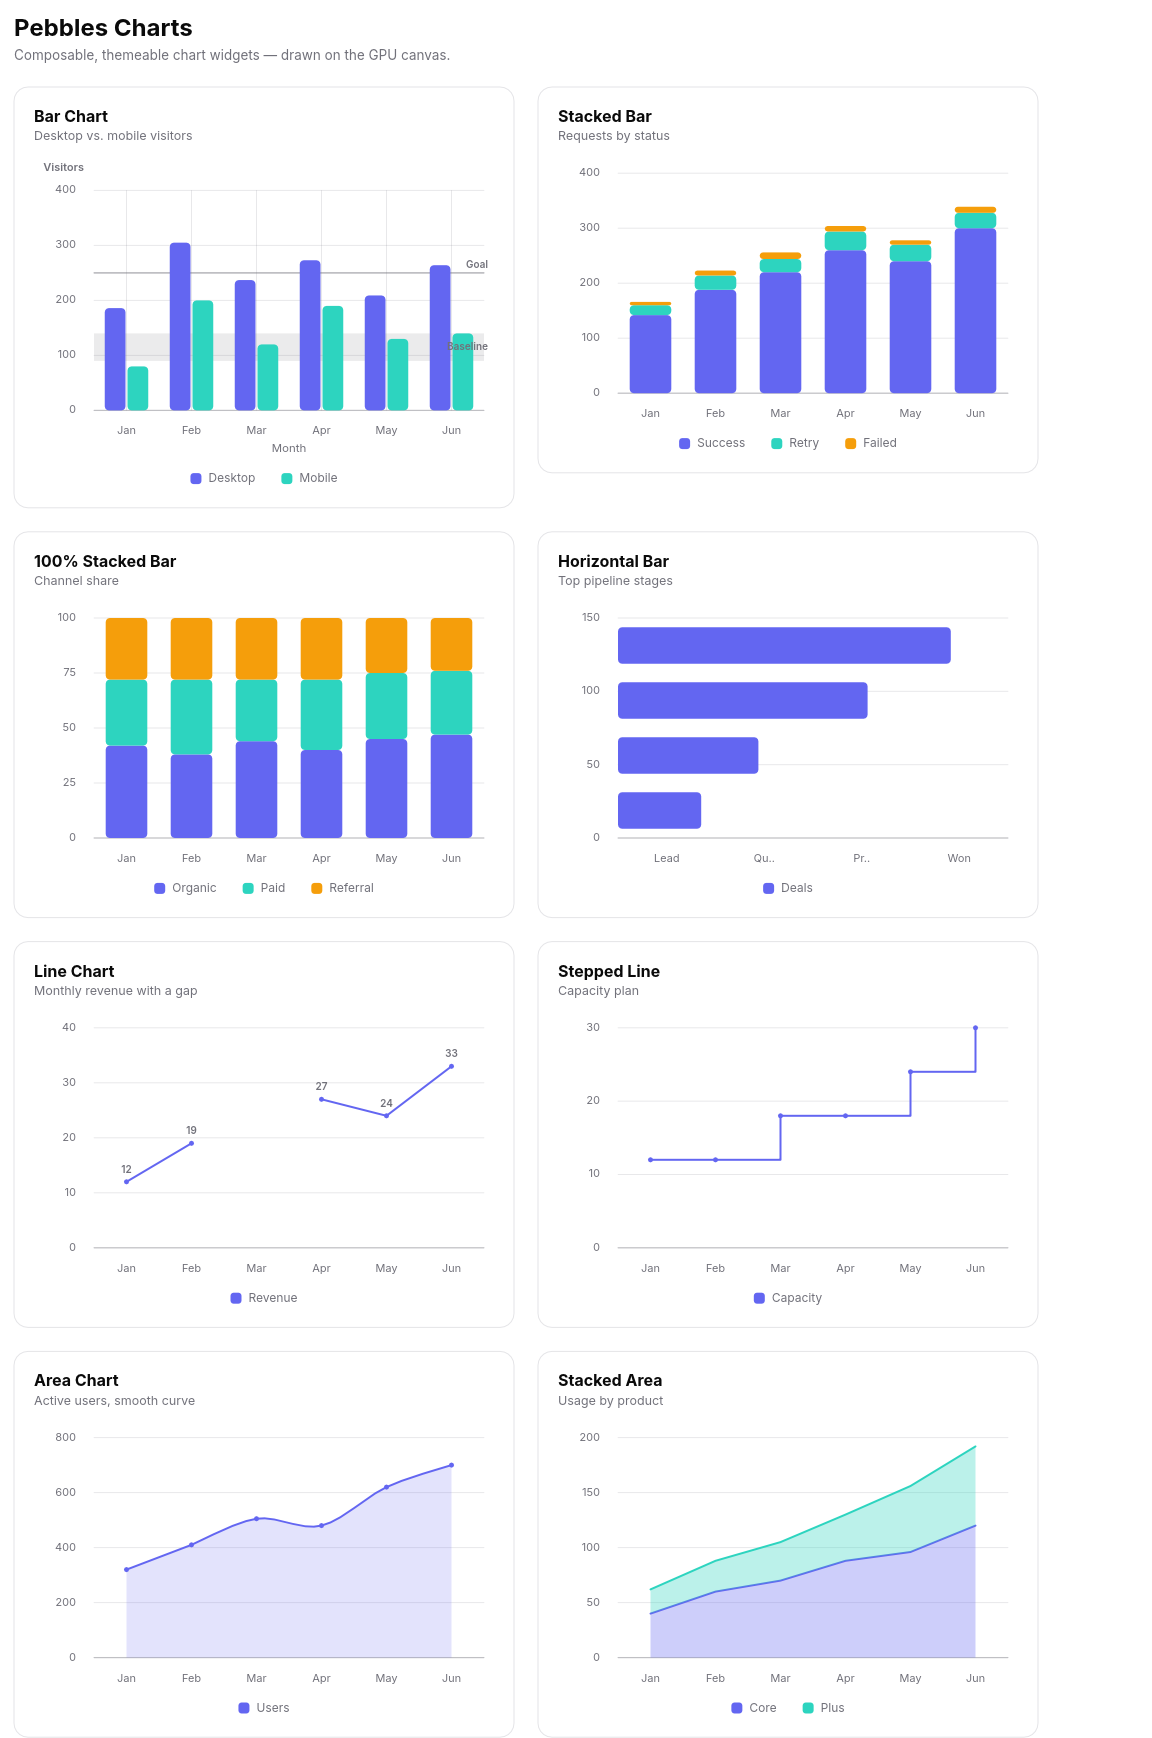
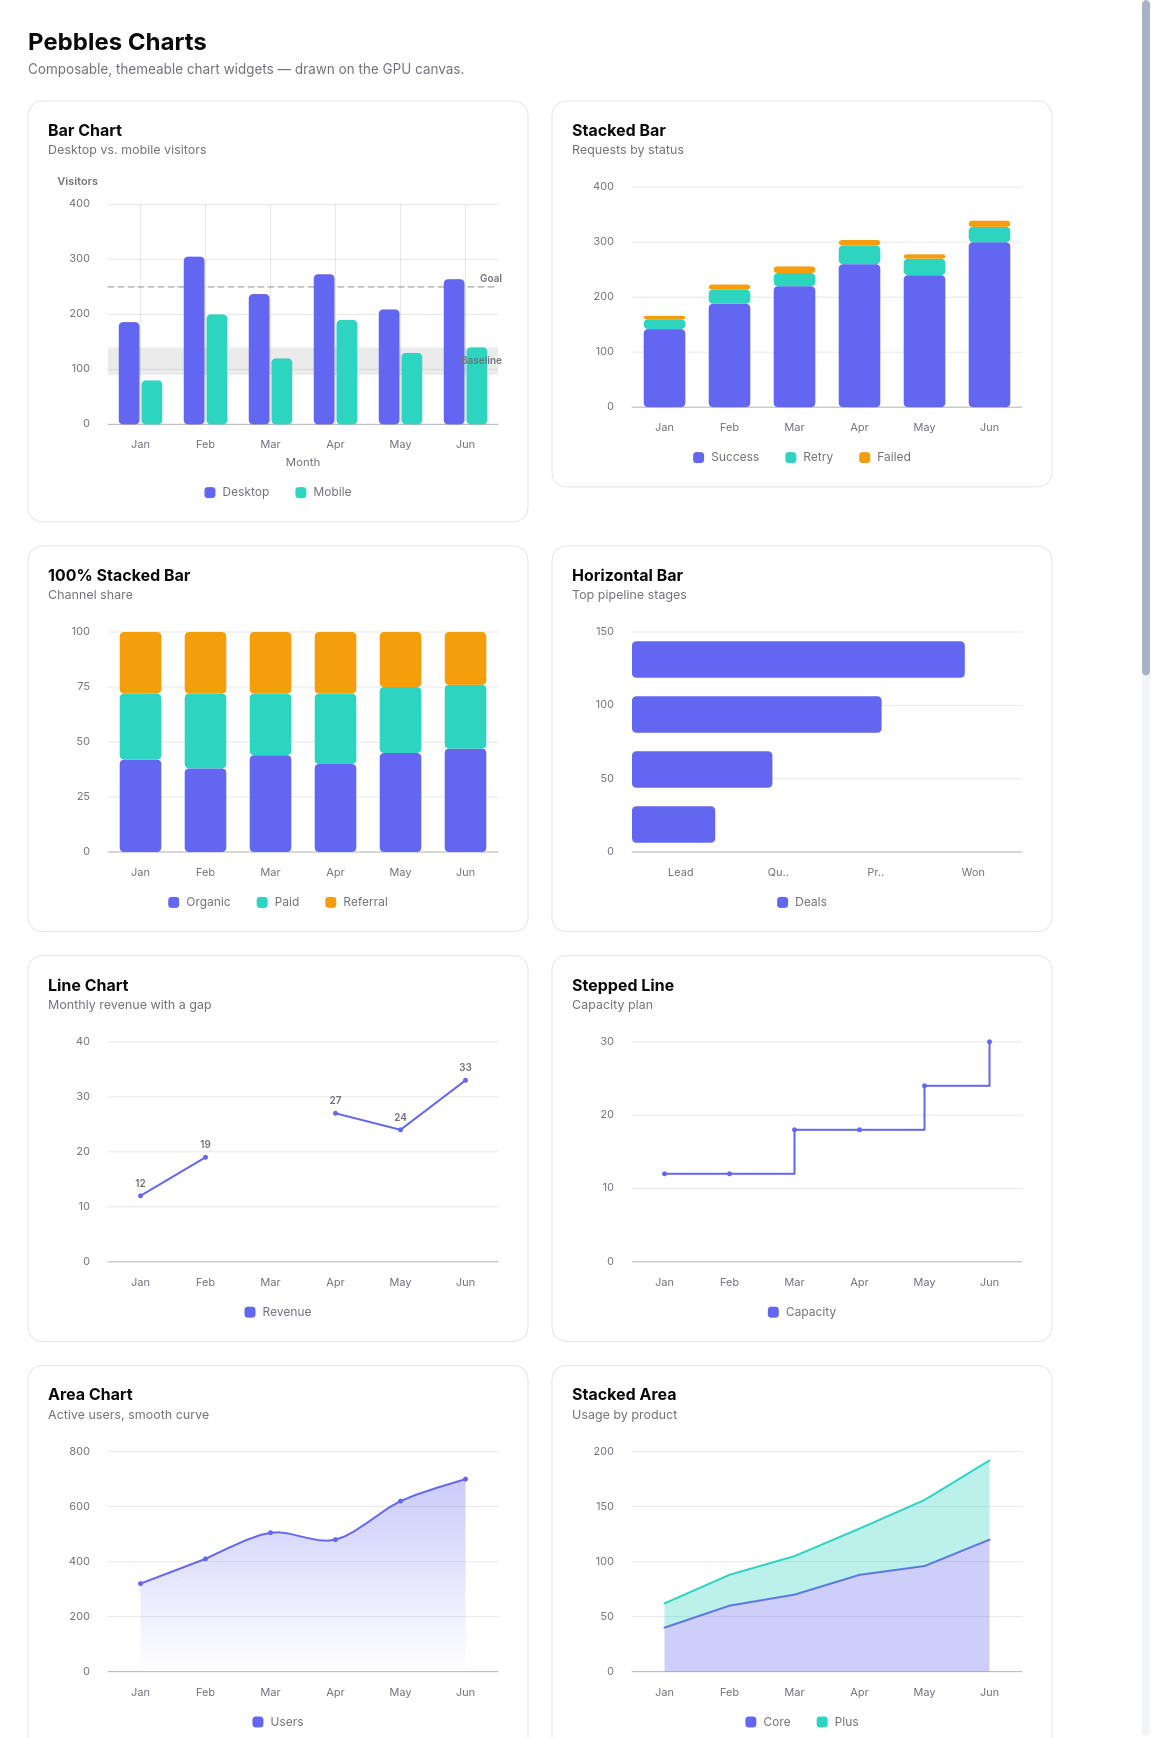
feat: gradient area fills, dashed reference lines, auto reduced-motion
Built on the new framework Canvas + animation APIs (pebbles cd7b3f1):
- .area_gradient(true) fills area/stacked-area with a vertical gradient
  (series color fading to transparent at the baseline)
- reference/target lines are now drawn dashed (conventional annotation style)
- .animate now auto-honors the OS reduced-motion preference by default via
  prefers_reduced_motion(); .animate(true/false) still forces an override
- demo showcases the gradient area; capture harness mirrors the reduced-motion
  setup so headless SHOT renders the static state; screenshot regenerated

diff --git a/src/charts.rs b/src/charts.rs
@@ -736,11 +736,13 @@ fn append_points_path(path: &mut BezPath, pts: &[(usize, f64, f64)], curve: Curv
 }
 
 #[allow(clippy::too_many_arguments)]
+#[allow(clippy::too_many_arguments)]
 fn draw_line_area_series(
     c: &mut Canvas<'_>,
     values: &[f64],
     series_index: usize,
     fill_area: bool,
+    area_gradient: bool,
     curve: CurveInterpolation,
     baseline: f64,
     y_scale: &LinearScale,
@@ -759,7 +761,13 @@ fn draw_line_area_series(
             append_points_path(&mut fill, &pts, curve);
             fill.line_to((pts[pts.len() - 1].1, baseline));
             fill.close_path();
-            c.fill_path(&fill, with_alpha(color, 0.18));
+            if area_gradient {
+                // Series color at the top of the band fading to transparent at the baseline.
+                let grad = Gradient::vertical([with_alpha(color, 0.34), with_alpha(color, 0.0)]);
+                c.fill_path_gradient(&fill, &grad);
+            } else {
+                c.fill_path(&fill, with_alpha(color, 0.18));
+            }
         }
 
         let mut line = BezPath::new();
@@ -1090,9 +1098,11 @@ pub struct CartesianChart {
     data_labels: bool,
     legend_position: LegendPosition,
     legend_values: bool,
-    animate: bool,
+    // None = auto (honor the OS reduced-motion preference); Some(_) = explicit override.
+    animate: Option<bool>,
     animation_ms: u32,
     palette: Option<Vec<Color>>,
+    area_gradient: bool,
 }
 
 /// Alias — a bar chart. See [`bar_chart`].
@@ -1148,9 +1158,10 @@ fn cartesian(kind: Kind, categories: Vec<String>, series: Vec<Series>) -> Cartes
         data_labels: false,
         legend_position: LegendPosition::Bottom,
         legend_values: false,
-        animate: true,
+        animate: None,
         animation_ms: 600,
         palette: None,
+        area_gradient: false,
     }
 }
 
@@ -1254,10 +1265,12 @@ impl CartesianChart {
         self.legend_values = on;
         self
     }
-    /// Animate the marks in on mount (a left-to-right reveal). Default true; set false
-    /// for a static chart or to honor a reduced-motion preference.
+    /// Animate the marks in on mount (a left-to-right reveal) and tween on data change.
+    /// By default this **auto-honors the OS reduced-motion preference** (animations off
+    /// when the user asked to minimize motion); call `.animate(true)` to force it on or
+    /// `.animate(false)` to force it off regardless.
     pub fn animate(mut self, on: bool) -> Self {
-        self.animate = on;
+        self.animate = Some(on);
         self
     }
     /// Entry-animation duration in milliseconds (default 600).
@@ -1270,6 +1283,13 @@ impl CartesianChart {
     /// custom `Vec<Color>`. Per-series `.color(..)` still wins over the palette.
     pub fn palette(mut self, colors: Vec<Color>) -> Self {
         self.palette = if colors.is_empty() { None } else { Some(colors) };
+        self
+    }
+    /// Fill area/stacked-area series with a **vertical gradient** (the series color at the
+    /// top fading to transparent at the baseline) instead of a flat translucent fill.
+    /// No effect on non-area charts. Default off.
+    pub fn area_gradient(mut self, on: bool) -> Self {
+        self.area_gradient = on;
         self
     }
     /// Draw horizontal grid lines (default true).
@@ -1532,8 +1552,9 @@ fn render_cartesian_chart(chart: &CartesianChart) -> AnyWidget {
     let all_combo_kinds = chart.combo_kinds.clone();
     let legend_position = chart.legend_position;
     let legend_values = chart.legend_values;
-    let animate = chart.animate;
+    let animate = chart.animate.unwrap_or(!prefers_reduced_motion());
     let animation_ms = chart.animation_ms;
+    let area_gradient = chart.area_gradient;
     let curve = chart.curve;
     let vertical_grid = chart.vertical_grid;
     let x_axis_title = chart.x_axis_title.clone();
@@ -1775,11 +1796,15 @@ fn render_cartesian_chart(chart: &CartesianChart) -> AnyWidget {
                 continue;
             }
             let y = y_scale.map(line.value).clamp(pt, y1);
-            c.stroke_line(
+            // Reference/target lines are drawn dashed — the conventional way to distinguish
+            // an annotation from a data mark (matches Chart.js / D3 target lines).
+            c.stroke_line_dashed(
                 Offset::new(x0, y),
                 Offset::new(x0 + pw, y),
                 1.4,
                 line.color.unwrap_or(reference_c),
+                &[6.0, 4.0],
+                0.0,
             );
         }
 
@@ -1920,6 +1945,7 @@ fn render_cartesian_chart(chart: &CartesianChart) -> AnyWidget {
                                         .get(si)
                                         .copied()
                                         .unwrap_or(SeriesKind::Line),
+                                area_gradient,
                                 curve,
                                 baseline,
                                 &y_scale,
@@ -1966,7 +1992,15 @@ fn render_cartesian_chart(chart: &CartesianChart) -> AnyWidget {
                         fill.line_to(p);
                     }
                     fill.close_path();
-                    c.fill_path(&fill, with_alpha(draw_colors[si], 0.32));
+                    if area_gradient {
+                        let grad = Gradient::vertical([
+                            with_alpha(draw_colors[si], 0.5),
+                            with_alpha(draw_colors[si], 0.05),
+                        ]);
+                        c.fill_path_gradient(&fill, &grad);
+                    } else {
+                        c.fill_path(&fill, with_alpha(draw_colors[si], 0.32));
+                    }
                     let mut line = BezPath::new();
                     line.move_to(top[0]);
                     for &p in &top[1..] {
@@ -1982,6 +2016,7 @@ fn render_cartesian_chart(chart: &CartesianChart) -> AnyWidget {
                         sv,
                         si,
                         kind == Kind::Area,
+                        area_gradient,
                         if kind == Kind::SteppedLine {
                             CurveInterpolation::Step
                         } else {
@@ -3432,7 +3467,8 @@ pub struct PieChart {
     legend_values: bool,
     tooltip: bool,
     on_slice: Option<Rc<dyn Fn(usize, f64)>>,
-    animate: bool,
+    // None = auto (honor the OS reduced-motion preference); Some(_) = explicit override.
+    animate: Option<bool>,
     animation_ms: u32,
     palette: Option<Vec<Color>>,
 }
@@ -3449,7 +3485,7 @@ pub fn pie_chart(slices: Vec<Slice>) -> PieChart {
         legend_values: false,
         tooltip: true,
         on_slice: None,
-        animate: true,
+        animate: None,
         animation_ms: 700,
         palette: None,
     }
@@ -3466,7 +3502,7 @@ pub fn donut_chart(slices: Vec<Slice>) -> PieChart {
         legend_values: false,
         tooltip: true,
         on_slice: None,
-        animate: true,
+        animate: None,
         animation_ms: 700,
         palette: None,
     }
@@ -3517,9 +3553,11 @@ impl PieChart {
         self.palette = if colors.is_empty() { None } else { Some(colors) };
         self
     }
-    /// Animate the wedges in on mount (a radial sweep). Default true.
+    /// Animate the wedges in on mount (a radial sweep) and tween on data change. By default
+    /// this **auto-honors the OS reduced-motion preference**; call `.animate(true)`/`(false)`
+    /// to force it regardless.
     pub fn animate(mut self, on: bool) -> Self {
-        self.animate = on;
+        self.animate = Some(on);
         self
     }
     /// Entry-animation duration in milliseconds (default 700).
@@ -3638,7 +3676,7 @@ fn render_pie_chart(chart: &PieChart) -> AnyWidget {
     let legend_values = chart.legend_values;
     let tooltip = chart.tooltip;
     let on_slice = chart.on_slice.clone();
-    let animate = chart.animate;
+    let animate = chart.animate.unwrap_or(!prefers_reduced_motion());
     let animation_ms = chart.animation_ms;
     let palette_override = chart.palette.clone();
     let pal_color = move |i: usize| -> Color {

diff --git a/examples/demo/src/capture.rs b/examples/demo/src/capture.rs
@@ -107,6 +107,13 @@ fn scene_for(ui: &mut Ui, env: &mut TextEnv, w: u32, h: u32) -> Scene {
 pub fn shot(spec: &str, root: fn() -> AnyWidget, base: Color) -> Result<(), Box<dyn std::error::Error>> {
     let p: Vec<&str> = spec.split(':').collect();
     let (w, h, out) = (p[0].parse::<u32>()?, p[1].parse::<u32>()?, p[2]);
+    // Mirror App::run()'s reduced-motion detection (the capture path bypasses run), so
+    // `PEBBLES_REDUCED_MOTION=1 SHOT=...` renders the static, animation-free state.
+    if let Ok(v) = std::env::var("PEBBLES_REDUCED_MOTION") {
+        if matches!(v.trim().to_ascii_lowercase().as_str(), "1" | "true" | "yes" | "on") {
+            set_prefers_reduced_motion(true);
+        }
+    }
     pebbles::widgets::overlay::init();
     pebbles::core::focus::init();
     let mut gpu = Gpu::new(w, h);

diff --git a/examples/demo/src/main.rs b/examples/demo/src/main.rs
@@ -86,6 +86,7 @@ fn app() -> AnyWidget {
         "Active users, smooth curve",
         area_chart(months(), vec![series("Users", vec![320.0, 410.0, 505.0, 480.0, 620.0, 700.0])])
             .curve(CurveInterpolation::Smooth)
+            .area_gradient(true)
             .width(460.0)
             .height(240.0),
     );

diff --git a/README.md b/README.md
@@ -167,8 +167,10 @@ axes and reference lines stay put) and pie/donut wedges **sweep in radially**. W
 (cartesian bars/lines/area and the y-axis morph together; pie/donut wedges re-proportion)
 rather than snapping — hovering, tooltips, and data labels always report the real target
 values. Adding or removing a series/slice re-runs the reveal as an enter animation.
-Control it with `.animate(bool)` (default on — set false to honor a reduced-motion
-preference) and `.animation_ms(n)` (default 600, pie 700).
+Animations **auto-honor the OS reduced-motion setting** — when the user has asked to
+minimize motion (`prefers-reduced-motion` on web, the desktop equivalent otherwise),
+charts render statically by default. Force it either way with `.animate(true|false)`, and
+tune the duration with `.animation_ms(n)` (default 600, pie 700).
 
 ## Theming
 
@@ -187,6 +189,11 @@ preference) and `.animation_ms(n)` (default 600, pie 700).
 - **Legend** is generated from series/slice labels; hide with `.legend(false)`, move it
   with `.legend_position(..)`, show per-entry totals/percentages with `.legend_values(true)`,
   and it's interactive by default (click to toggle a series/slice).
+- **Gradient area fills** — `.area_gradient(true)` fills area / stacked-area series with a
+  vertical gradient (series color fading to transparent at the baseline) instead of a flat
+  translucent fill.
+- **Reference lines** are drawn **dashed** (the conventional annotation style), distinct
+  from the solid data marks.
 
 ## Run the sample
 
@@ -200,8 +207,7 @@ SHOT=1180:1600:/tmp/charts.rgba cargo run -p demo
 
 - Responsive fill-parent sizing.
 - A per-slot `ChartStyle` (fonts, strokes, tick counts) beyond the palette.
-- Per-series fade-out on removal, and automatic `prefers-reduced-motion` (both pending
-  framework support).
+- Per-series fade-out on removal.
 
 ## License
 
